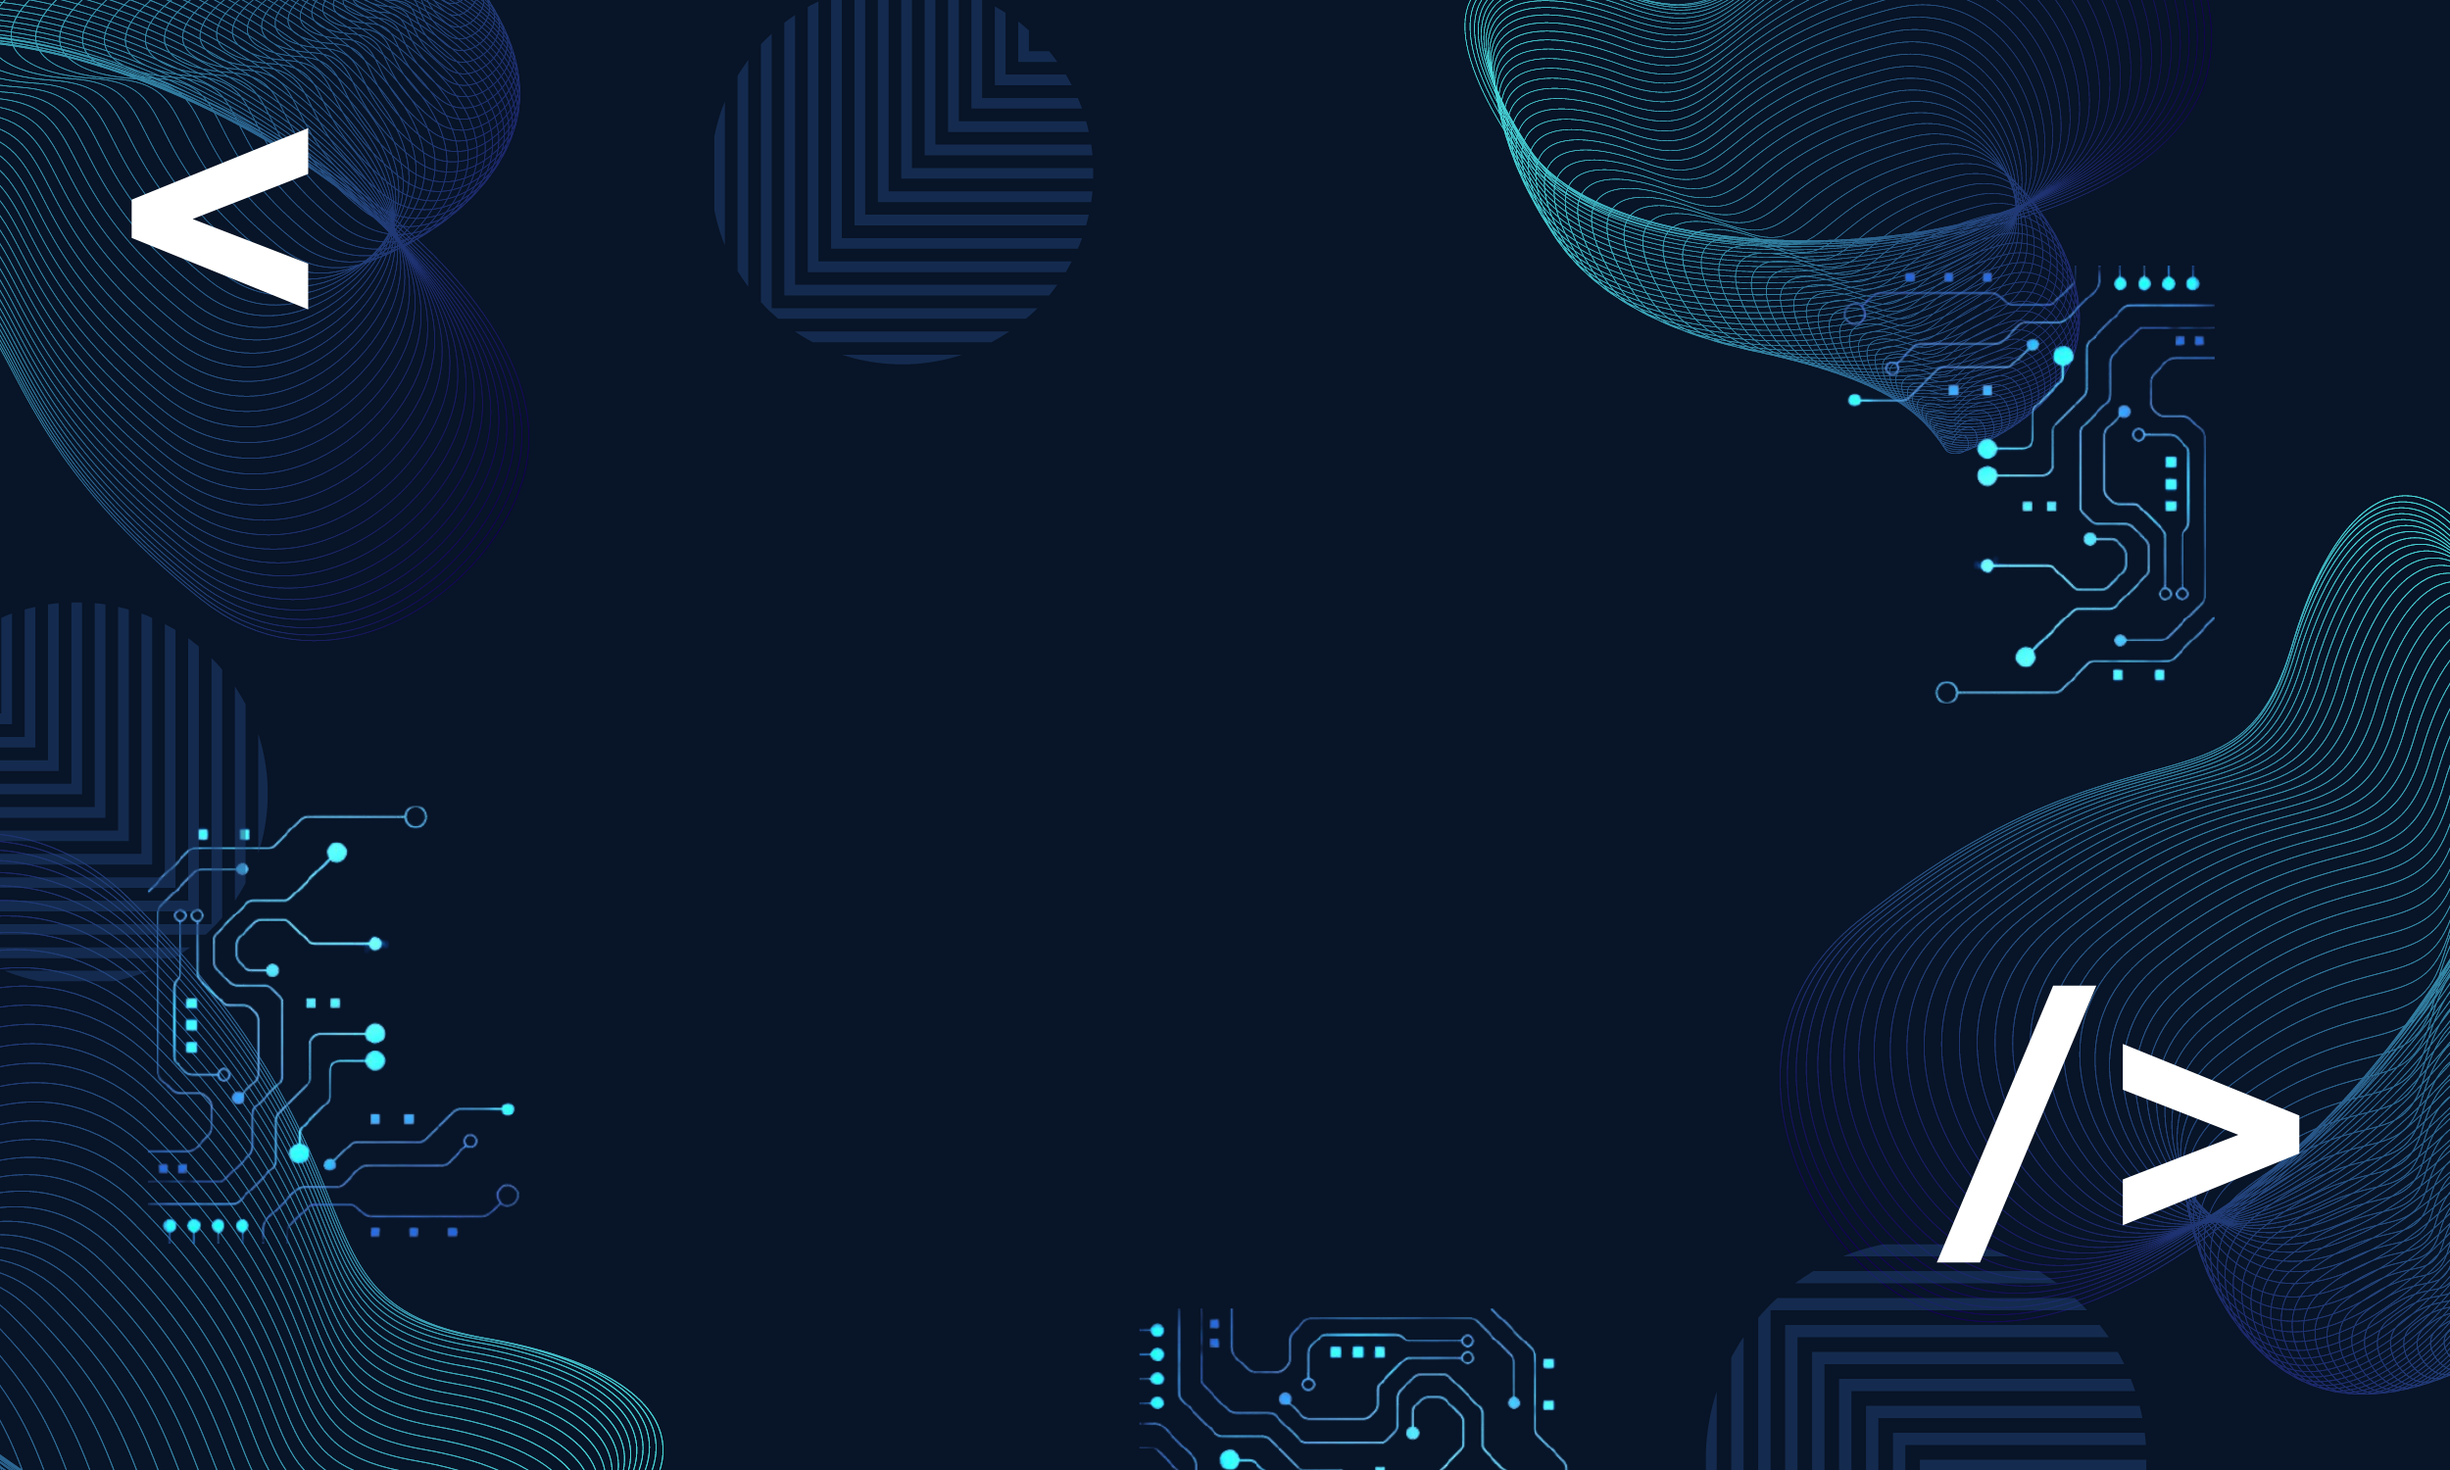
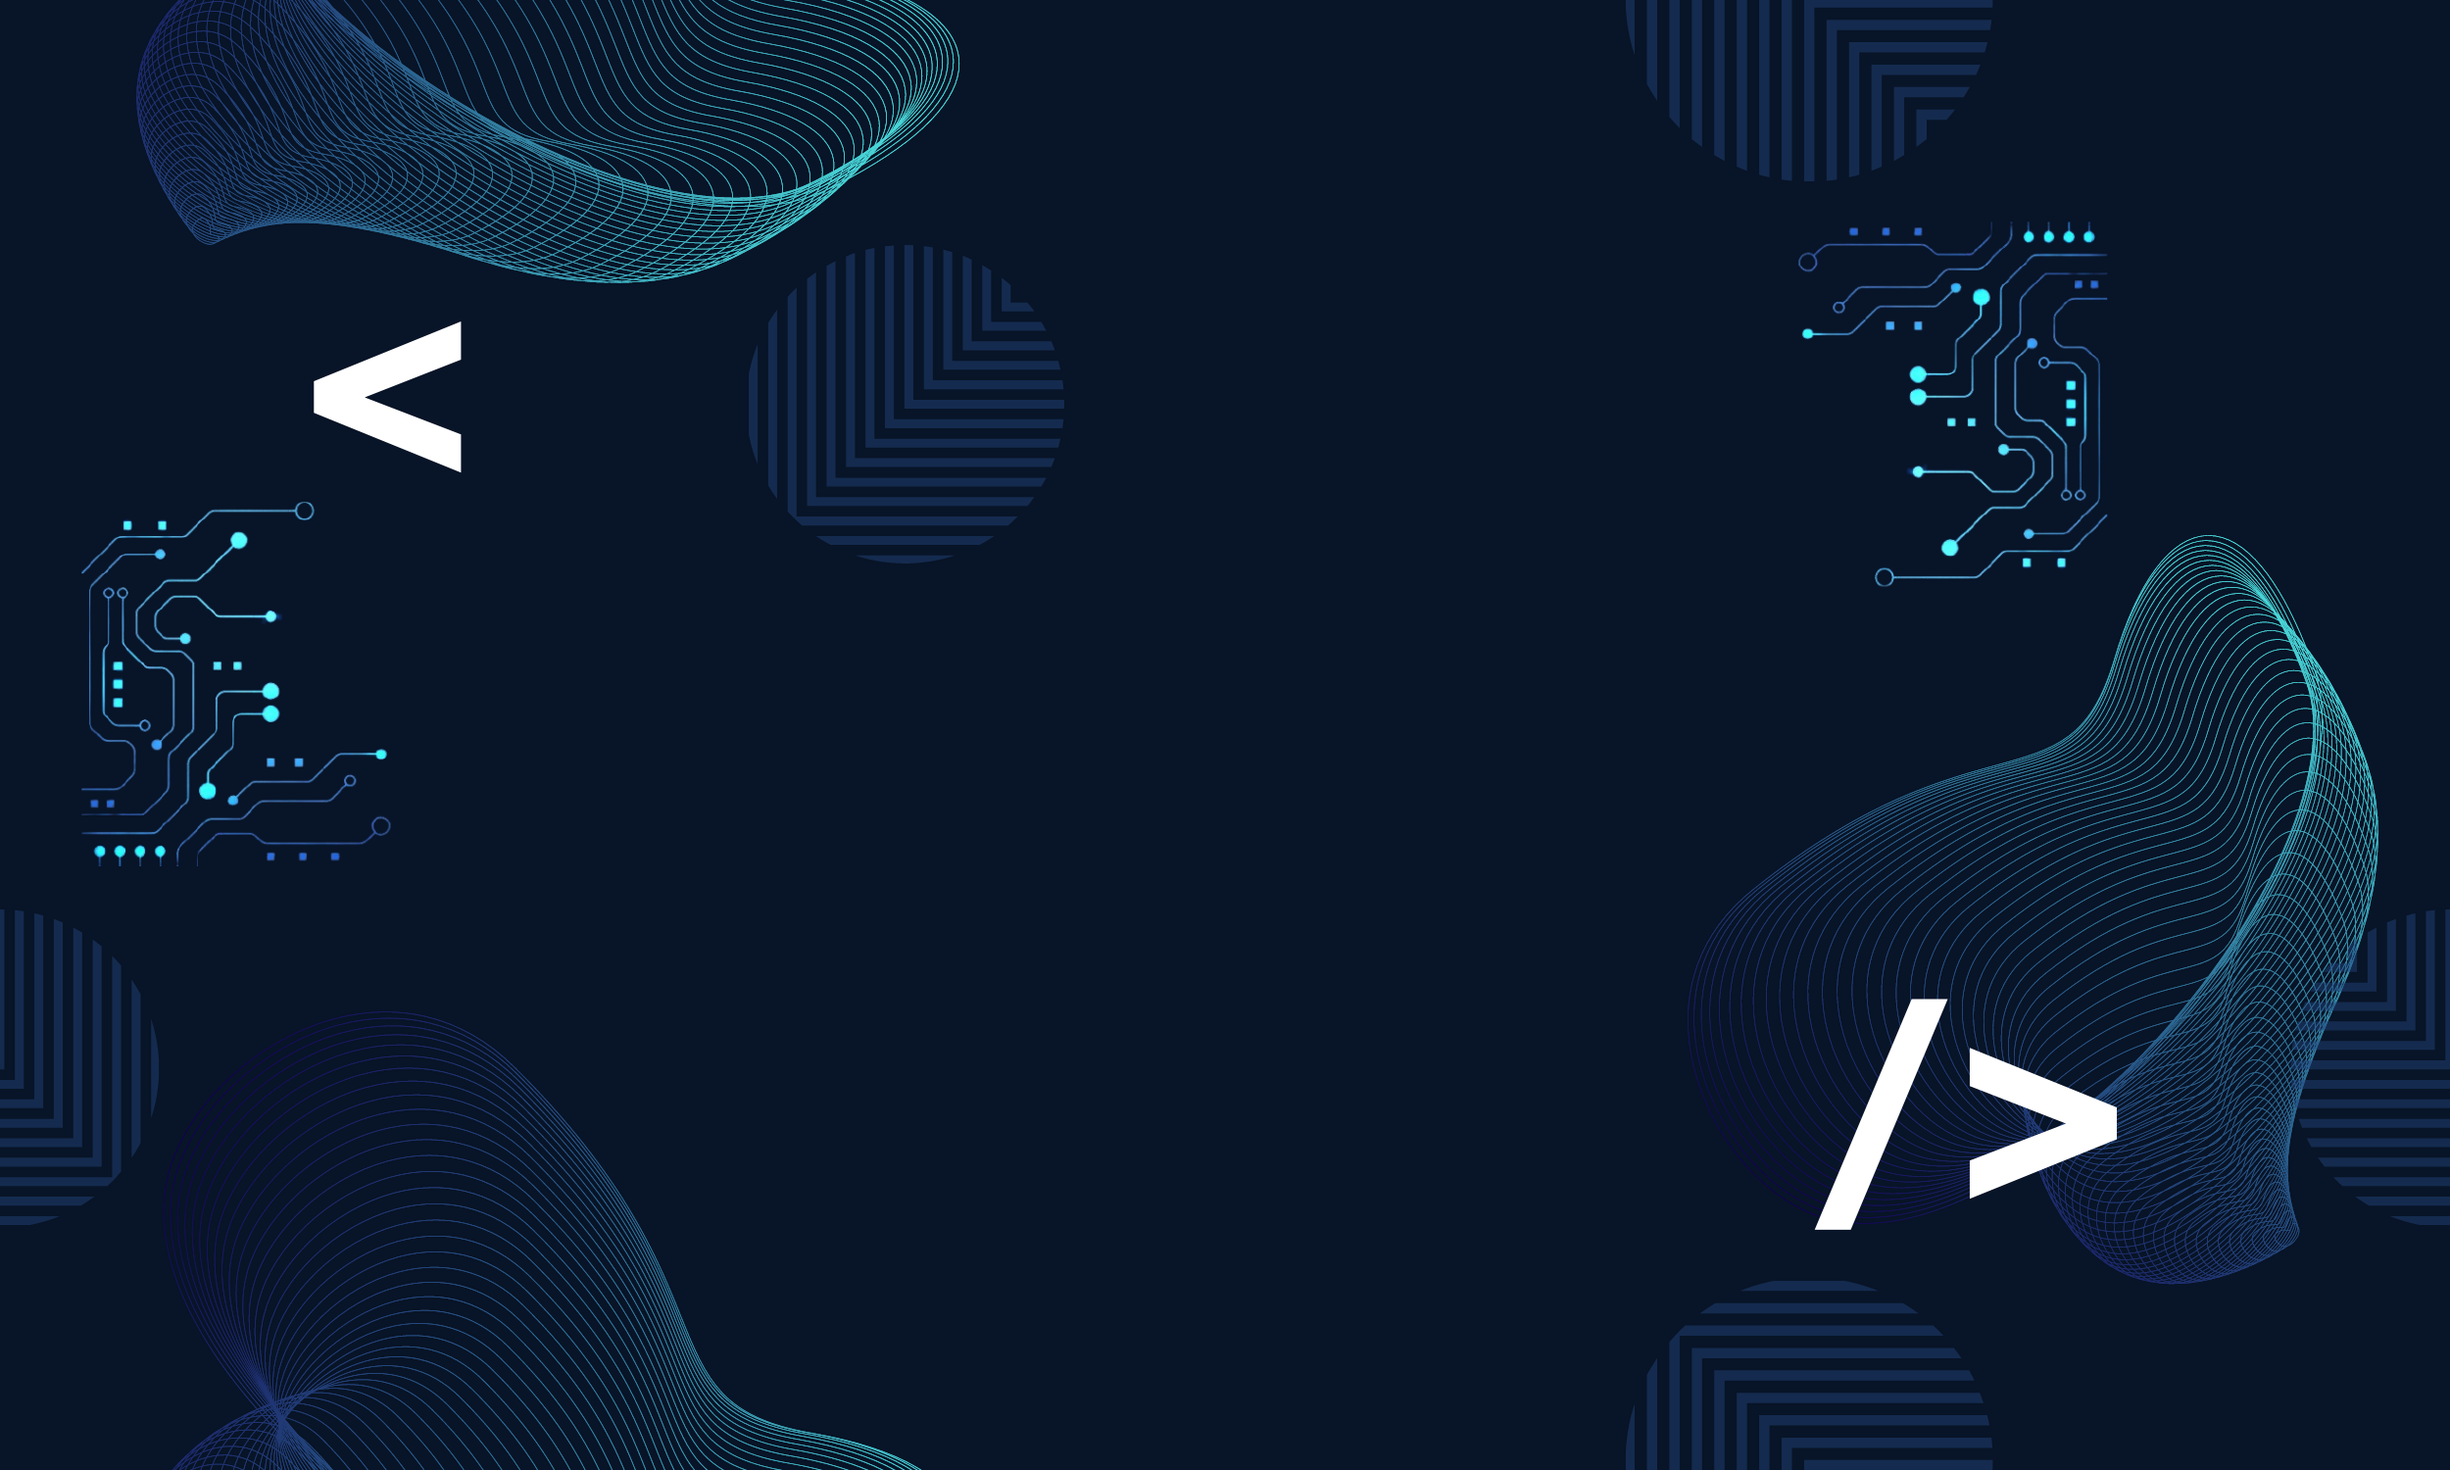
background and more styling done

diff --git a/src/components/Navbar.js b/src/components/Navbar.js
@@ -11,13 +11,13 @@ const Navbar = () => {
 
             <div className="flex items-center justify-between font-bold">
                 <div className="">
-                <NavLink to={'/'} exact activeClassName="text-white" className="mr-6 text-2xl hover:text-white">Home</NavLink>
-                <NavLink to={'/projects'} activeClassName="text-white" className="mr-6 text-2xl hover:text-white ">Projects</NavLink>
-                <NavLink to={'/about'} activeClassName="text-white" className="mr-6 text-2xl hover:text-white ">About</NavLink>
-                <NavLink to={'/contact'} activeClassName="text-white" className="mr-6 text-2xl hover:text-white ">Contact</NavLink>
+                <NavLink to={'/'} exact activeClassName="text-white" className="mr-6 text-2xl hover:text-white focus:outline-none focus:ring focus:ring-white">Home</NavLink>
+                <NavLink to={'/projects'} activeClassName="text-white" className="mr-6 text-2xl hover:text-white focus:outline-none focus:ring focus:ring-white ">Projects</NavLink>
+                <NavLink to={'/about'} activeClassName="text-white" className="mr-6 text-2xl hover:text-white focus:outline-none focus:ring focus:ring-white ">About</NavLink>
+                <NavLink to={'/contact'} activeClassName="text-white" className="mr-6 text-2xl hover:text-white focus:outline-none focus:ring focus:ring-white">Contact</NavLink>
                 </div>
-                <a href='https://www.linkedin.com/in/brodie-kime/' activeClassName="text-white" className="mr-6 text-l hover:text-white ">LinkedIn</a>
-                <a href='https://github.com/brodiekime21' activeClassName="text-white" className="mr-6 text-l hover:text-white ">Github</a>
+                <a href='https://www.linkedin.com/in/brodie-kime/' activeClassName="text-white" className="mr-6 text-l hover:text-white focus:outline-none focus:ring focus:ring-white">LinkedIn</a>
+                <a href='https://github.com/brodiekime21' activeClassName="text-white" className="mr-6 text-l hover:text-white focus:outline-none focus:ring focus:ring-white ">Github</a>
             </div>
 
         </nav>

diff --git a/src/index.css b/src/index.css
@@ -8,6 +8,7 @@
 }
 
 body {
+  color: white;
   margin: 0;
   font-family: -apple-system, BlinkMacSystemFont, 'Segoe UI', 'Roboto', 'Oxygen',
     'Ubuntu', 'Cantarell', 'Fira Sans', 'Droid Sans', 'Helvetica Neue',
@@ -25,4 +26,30 @@ code {
 
 .logo-hover:hover {
   filter: brightness(0) invert(1);
+}
+
+.download {
+  background-color: #4adedd;
+  color: #081427;
+  border: 2px solid #081427;
+  border-radius: 50px;
+  padding: 15px 30px;
+  text-align: center;
+  text-transform: uppercase;
+  font-size: 18px;
+  font-weight: bold;
+  letter-spacing: 1px;
+  transition: all 0.3s ease-in-out;
+}
+
+.download:hover {
+  background-color: #081427;
+  color: #4adedd;
+  border: 2px solid #4adedd;
+}
+
+.boxes{
+  background-color: rgba(255, 255, 255, 0.55);
+  padding: 20px;
+  border-radius: 15px;
 }

diff --git a/src/pages/Home.js b/src/pages/Home.js
@@ -1,14 +1,18 @@
-
+import { Button } from 'react-bootstrap';
 
 function Home() {
-
-
   return (
-    <div>
-      <h1>Hello I'm Brodie, <em>Full-Stack Web Developer</em></h1>
-      <a href={require("../Brodie-Kime-Resume.pdf")} download>Resume</a>
+    <div className="flex items-center justify-center h-screen">
+      <div className="boxes flex flex-col items-start">
+        <h1 className="mb-4 text-black">
+          Hello I'm Brodie, <em>Full-Stack Web Developer</em>
+        </h1>
+        <Button className="download" href={require("../Brodie-Kime-Resume.pdf")} download>
+          Resume
+        </Button>
+      </div>
     </div>
-    );
+  );
 }
 
 export default Home;
